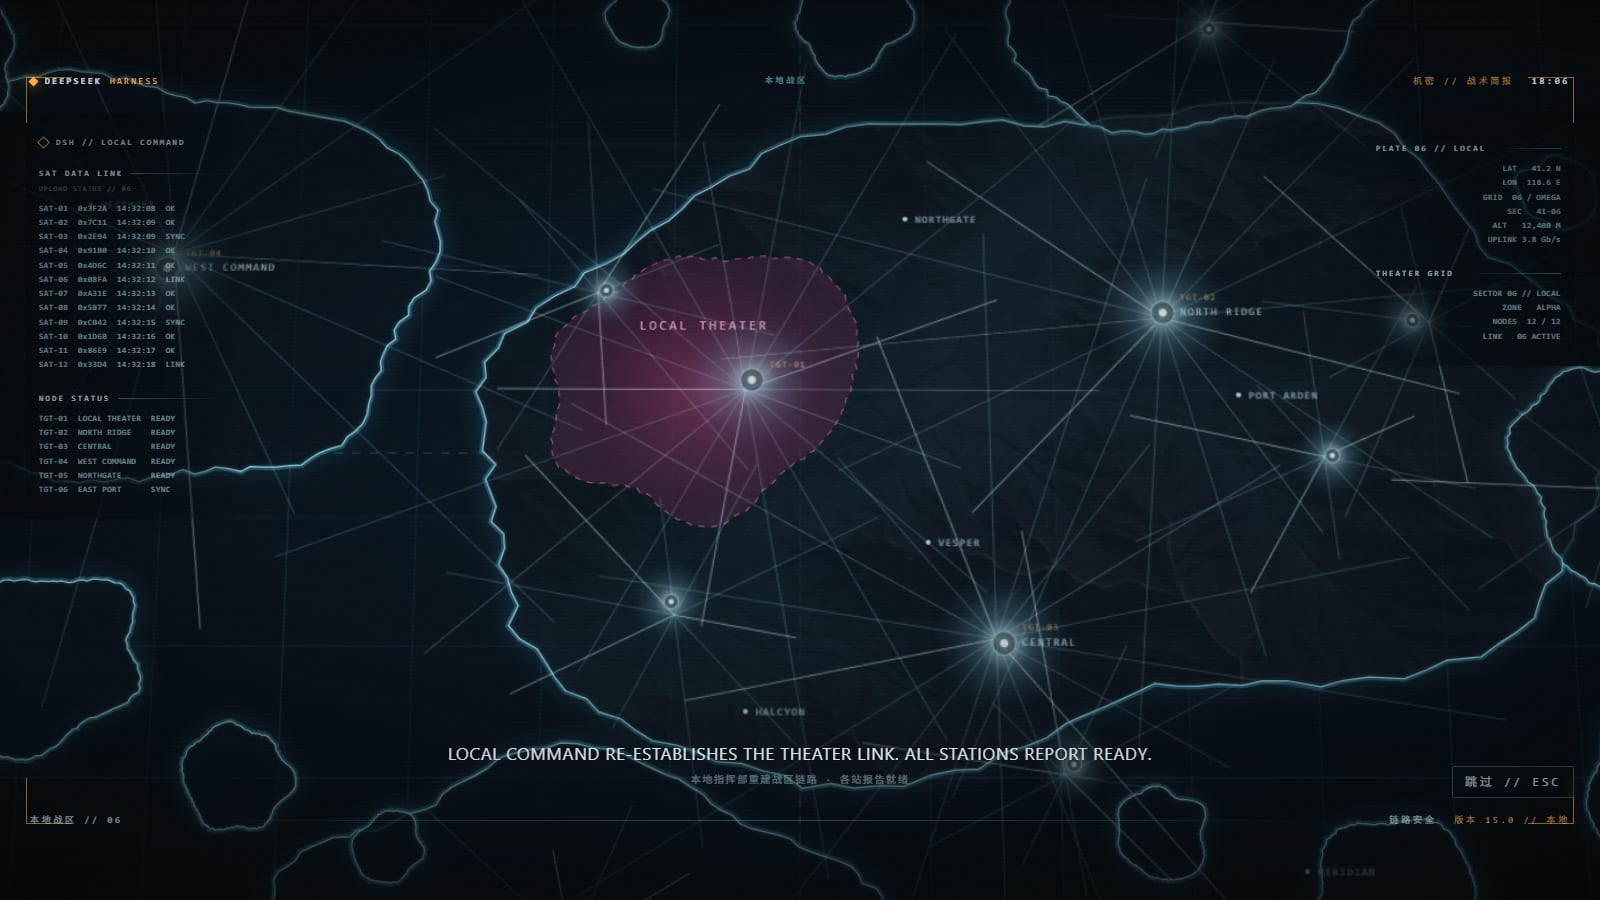
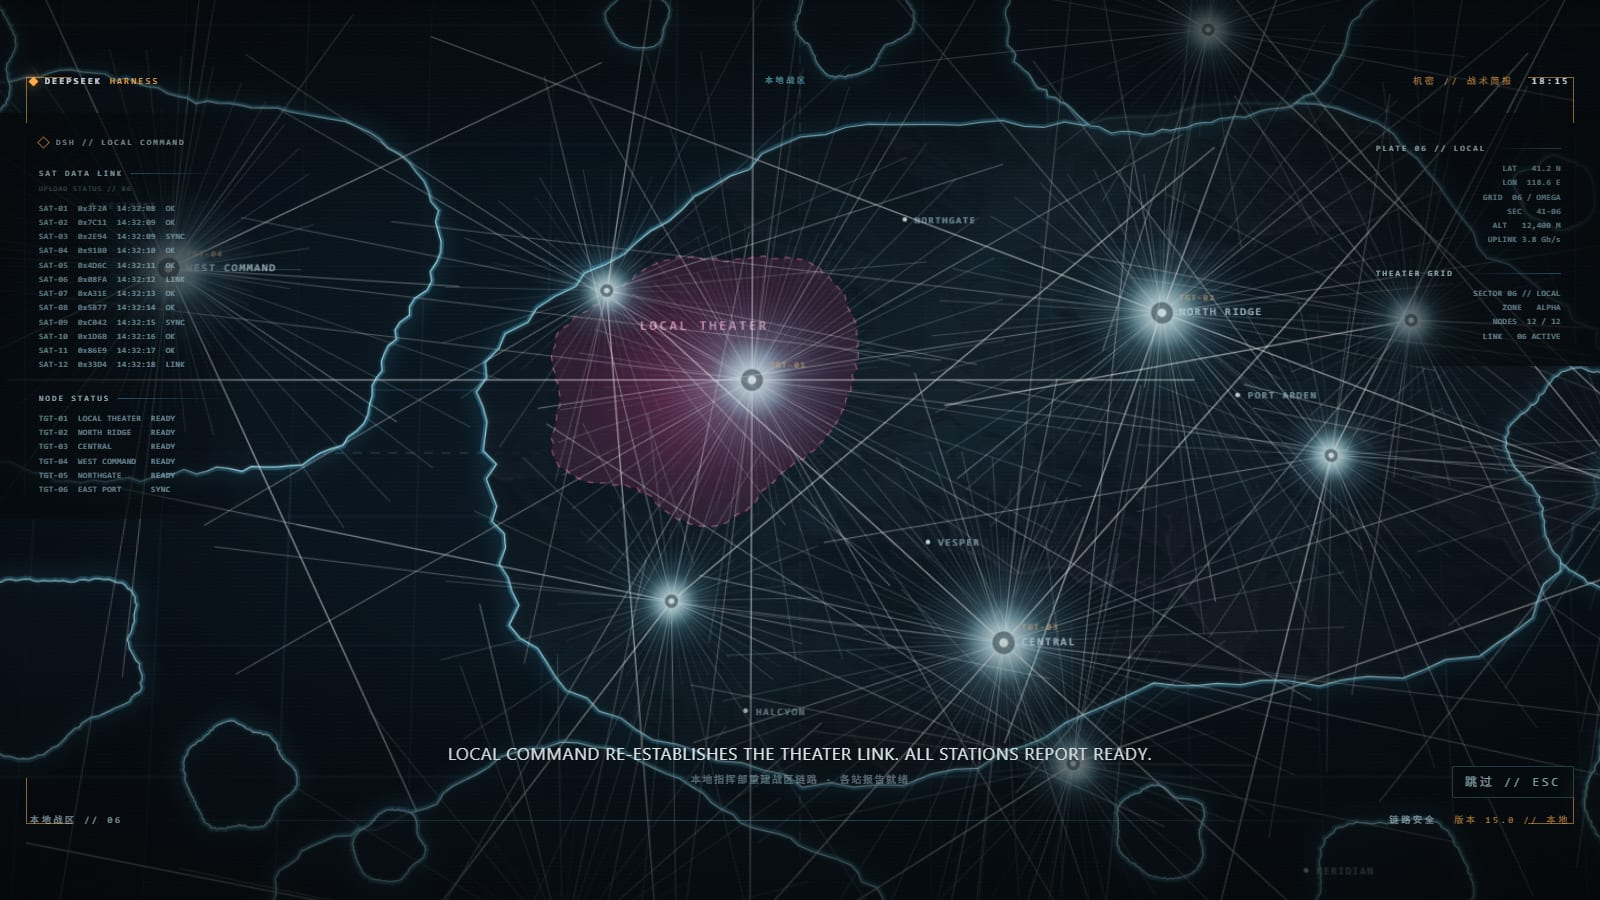
fix: densify the data-node ray bursts (v0.15.1)
- each node now fans three layers out of a concentrated bright core: 120 fine/mid/long rays for hub nodes and 56 for minor nodes, plus four cardinal spikes
- added a second inner halo (acbNodeCore) so the rays visibly start from one dense point
- ray widths/opacities are split into fine / mid / long / hot / spike tiers instead of one thin level
- screenshots/docs refreshed; behaviour and Host contract untouched (8/8 tests, real-Edge reload check)

diff --git a/client.js b/client.js
@@ -78,7 +78,7 @@ window.__ModuleLoader__.load({
       'aria.skip': '跳过开机动画',
       'skip.label': '跳过',
       'hud.op': '行动 // 第一缕光',
-      'hud.build': '版本 15.0 // 本地',
+      'hud.build': '版本 15.1 // 本地',
       'hud.theater': '本地战区 // 06',
       'hud.link': '链路安全',
       'brief.kicker': '战术简报 // 本地战区',
@@ -127,7 +127,7 @@ window.__ModuleLoader__.load({
       'aria.skip': 'Skip the boot sequence',
       'skip.label': 'SKIP',
       'hud.op': 'OPERATION // FIRST LIGHT',
-      'hud.build': 'BUILD 15.0 // LOCAL',
+      'hud.build': 'BUILD 15.1 // LOCAL',
       'hud.theater': 'LOCAL THEATER // 06',
       'hud.link': 'LINK SECURE',
       'brief.kicker': 'TACTICAL BRIEFING // LOCAL THEATER',
@@ -410,16 +410,33 @@ window.__ModuleLoader__.load({
       graticule.push(h('line', { key: 'axis-x', className: 'axis', x1: 0, y1: 450, x2: 1600, y2: 450 }));
       graticule.push(h('line', { key: 'axis-y', className: 'axis', x1: 800, y1: 0, x2: 800, y2: 900 }));
       const nodes = NODES.map(function (node, index) {
-        const count = node.hub ? 18 : 10;
+        const count = node.hub ? 120 : 56;
         const rays = [];
         for (let ray = 0; ray < count; ray += 1) {
-          const angle = (ray / count) * Math.PI * 2 + index * 0.6;
-          const length = node.hub ? 180 + ((ray * 67 + index * 29) % 260) : 70 + ((ray * 41 + index * 17) % 120);
-          const far = node.hub && ray % 6 === 0;
+          const angle = (ray / count) * Math.PI * 2 + index * 0.37;
+          const tier = ray % 10 === 0 ? 'long' : ray % 3 === 0 ? 'mid' : 'fine';
+          let length = 24 + ((ray * 37 + index * 53) % 110);
+          if (tier === 'mid') length = 96 + ((ray * 61 + index * 17) % 190);
+          if (tier === 'long') length = 210 + ((ray * 89 + index * 41) % 300);
+          if (ray % 30 === 0) length += 140;
           rays.push(
             h('line', {
               key: 'ray' + ray,
-              className: (ray % 4 === 0 ? 'bright' : '') + (far ? ' far' : ''),
+              className: tier + (ray % 30 === 0 ? ' hot' : ''),
+              x1: 0,
+              y1: 0,
+              x2: (Math.cos(angle) * length).toFixed(1),
+              y2: (Math.sin(angle) * length).toFixed(1),
+            }),
+          );
+        }
+        for (let spike = 0; spike < 4; spike += 1) {
+          const angle = (spike * Math.PI) / 2 + (node.hub ? 0.12 : 0.2);
+          const length = node.hub ? 620 : 300;
+          rays.push(
+            h('line', {
+              key: 'spike' + spike,
+              className: 'spike',
               x1: 0,
               y1: 0,
               x2: (Math.cos(angle) * length).toFixed(1),
@@ -435,10 +452,11 @@ window.__ModuleLoader__.load({
             style: { '--acb-i': index },
             transform: 'translate(' + node.x + ' ' + node.y + ')',
           },
-          h('circle', { className: 'acb-node-halo', r: node.hub ? 56 : 32, fill: 'url(#acbNodeGlow)' }),
+          h('circle', { className: 'acb-node-halo', r: node.hub ? 74 : 44, fill: 'url(#acbNodeGlow)' }),
+          h('circle', { className: 'acb-node-halo acb-node-halo-core', r: node.hub ? 34 : 22, fill: 'url(#acbNodeCore)' }),
           h('g', { className: 'acb-node-rays' }, rays),
           h('circle', { className: 'acb-node-ring', r: node.hub ? 9 : 5.5 }),
-          h('circle', { className: 'acb-node-dot', r: node.hub ? 3.2 : 2 }),
+          h('circle', { className: 'acb-node-dot', r: node.hub ? 3.4 : 2.2 }),
           node.hub
             ? h('text', { className: 'acb-node-tag', x: 14, y: -10 }, node.tag)
             : null,
@@ -496,6 +514,13 @@ window.__ModuleLoader__.load({
                 h('stop', { offset: '0%', stopColor: 'rgba(226,250,255,.95)' }),
                 h('stop', { offset: '38%', stopColor: 'rgba(150,230,255,.3)' }),
                 h('stop', { offset: '100%', stopColor: 'rgba(30,90,120,0)' }),
+              ),
+              h(
+                'radialGradient',
+                { id: 'acbNodeCore' },
+                h('stop', { offset: '0%', stopColor: 'rgba(255,255,255,.98)' }),
+                h('stop', { offset: '28%', stopColor: 'rgba(224,252,255,.6)' }),
+                h('stop', { offset: '100%', stopColor: 'rgba(120,220,255,0)' }),
               ),
               h(
                 'filter',
@@ -1197,13 +1222,15 @@ window.__ModuleLoader__.load({
 .acb-city circle{fill:rgba(220,250,255,.9);}
 .acb-city text{fill:rgba(196,238,255,.62);font-size:8px;letter-spacing:.14em;}
 .acb-node{opacity:.9;}
-.acb-node-rays{transform-box:fill-box;transform-origin:center;animation:acbSpin 60s linear infinite;}
-.acb-node-rays line{stroke:rgba(170,235,255,.26);stroke-width:1;}
-.acb-node-rays line.bright{stroke:rgba(220,250,255,.55);}
-.acb-node-rays line.far{stroke:rgba(214,248,255,.34);stroke-width:.8;}
+.acb-node-rays line{stroke:rgba(190,240,255,.14);stroke-width:.6;}
+.acb-node-rays line.mid{stroke:rgba(214,250,255,.26);stroke-width:.75;}
+.acb-node-rays line.long{stroke:rgba(238,253,255,.42);stroke-width:.9;}
+.acb-node-rays line.hot{stroke:rgba(255,255,255,.62);stroke-width:1.1;}
+.acb-node-rays line.spike{stroke:rgba(255,255,255,.32);stroke-width:.9;}
 .acb-node-ring{fill:rgba(4,14,22,.5);stroke:rgba(190,246,255,.6);stroke-width:1;}
 .acb-node-dot{fill:#e8fdff;filter:drop-shadow(0 0 6px rgba(190,246,255,.95));}
 .acb-node-halo{mix-blend-mode:screen;opacity:.85;}
+.acb-node-halo-core{mix-blend-mode:screen;opacity:.95;}
 .acb-node-label{fill:rgba(214,246,255,.85);font-size:8.5px;letter-spacing:.16em;}
 .acb-node-tag{fill:rgba(255,190,130,.68);font-size:7px;letter-spacing:.14em;}
 .acb-rails{position:absolute;top:15vh;z-index:4;width:200px;font-size:7.5px;line-height:1.75;

diff --git a/boot-splash.js b/boot-splash.js
@@ -81,7 +81,7 @@ export const EARLY_HTML = String.raw`
   <div class="acbE-bottom">
     <span>DESKTOP <b>06</b></span>
     <span>LOCAL // SECURE BOOT</span>
-    <span>BUILD <b>15.0</b></span>
+    <span>BUILD <b>15.1</b></span>
   </div>
 </div>
 `;

diff --git a/README.md b/README.md
@@ -6,9 +6,11 @@ DeepSeek Harness Web UI 的电影感开机序列：四段式**战术任务简报
 
 序列只属于**一次应用启动**：冷启动播放一次；休眠唤醒、托盘恢复、页面刷新都不会重播。
 
-当前版本：**0.15.0**
+当前版本：**0.15.1**
 
 > 0.15.0：战区段重做成完整的任务简报界面——程序化海岸线 + 经纬网格 + `SAT DATA LINK` / `PLATE` 数据栏 + 多节点长射线 + 品红 `LOCAL THEATER` 高亮 + 底部任务字幕。
+
+> 0.15.1：射线爆发加密——每个节点从密集的亮核向外分三层（细 / 中 / 长）散开，另加四向十字长射线，密度大幅提高。
 
 | 简报上行 | 战区态势 |
 | --- | --- |
@@ -19,7 +21,7 @@ DeepSeek Harness Web UI 的电影感开机序列：四段式**战术任务简报
 ## 这一版是什么
 
 1. **简报 / BRIEF（0–2.8s）**：暗场里一张全息指挥桌缓慢呼吸，左侧轨道环，右侧 `DEEPSEEK / HARNESS` 字标划开；`OPERATION // FIRST LIGHT`、加密上行状态、简报准备进度，右侧 `BRIEFING DATA`（TGT / GRID / UPLINK / STATUS）。
-2. **战区 / THEATER（2.8–7.2s）**：全幅全息战区图。程序化海岸线 + 青色发光描边，经纬网格与坐标刻度；左右两列数据栏——`SAT DATA LINK / UPLOAD STATUS / NODE STATUS` 与 `PLATE 06 // LOCAL / THEATER GRID`；12 个数据节点带长短不一的射线爆发，4 个主节点更亮；品红 `LOCAL THEATER` 高亮区、城市标签与底部双语任务字幕。
+2. **战区 / THEATER（2.8–7.2s）**：全幅全息战区图。程序化海岸线 + 青色发光描边，经纬网格与坐标刻度；左右两列数据栏——`SAT DATA LINK / UPLOAD STATUS / NODE STATUS` 与 `PLATE 06 // LOCAL / THEATER GRID`；12 个数据节点从密集亮核向外分三层（细 / 中 / 长）散开，另有四向十字长射线，4 个主节点更亮；品红 `LOCAL THEATER` 高亮区、城市标签与底部双语任务字幕。
 3. **权限 / CONSOLE（7.2–10.8s）**：战区图退暗，左侧 `OPERATOR ACCESS` 卡片逐条校验身份、凭据、本机配置并盖 `ACCESS GRANTED`；右侧系统检查列表、雷达扫描与遥测；背景是低透明度的 `CLASSIFIED` 分类水印。
 4. **标题 / TITLE（10.8–15s）**：地图线稿淡出，`DEEPSEEK` 大标题、`MISSION START` 任务开始章、三枚状态 chip、`按 Enter 继续` 与自动继续进度。
 
